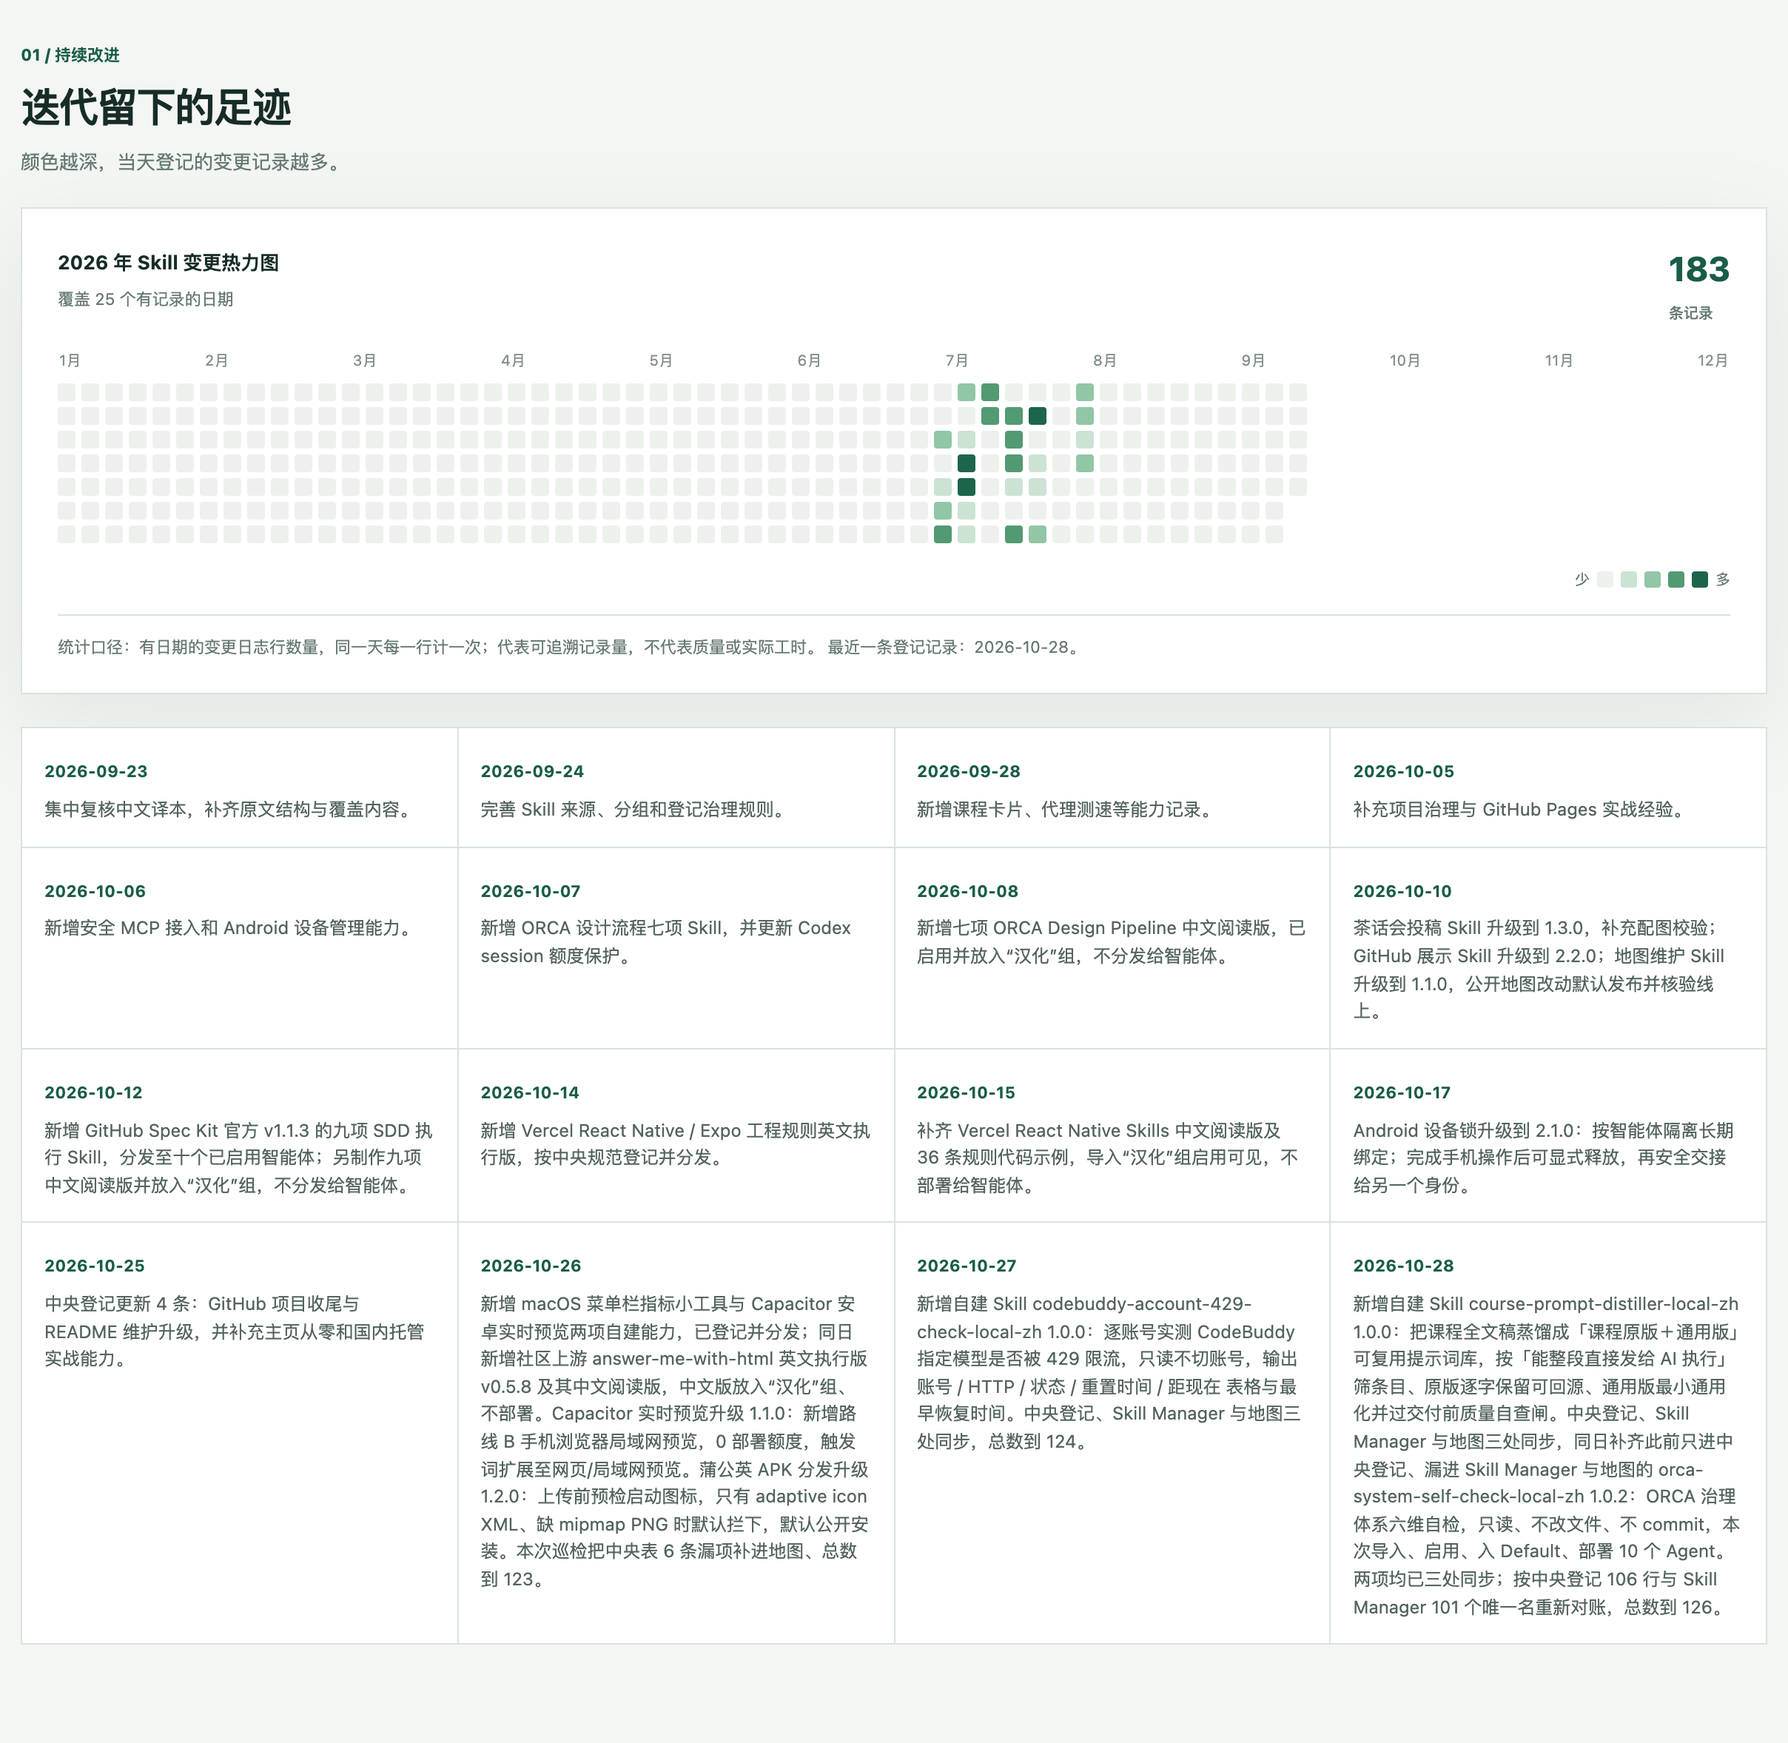
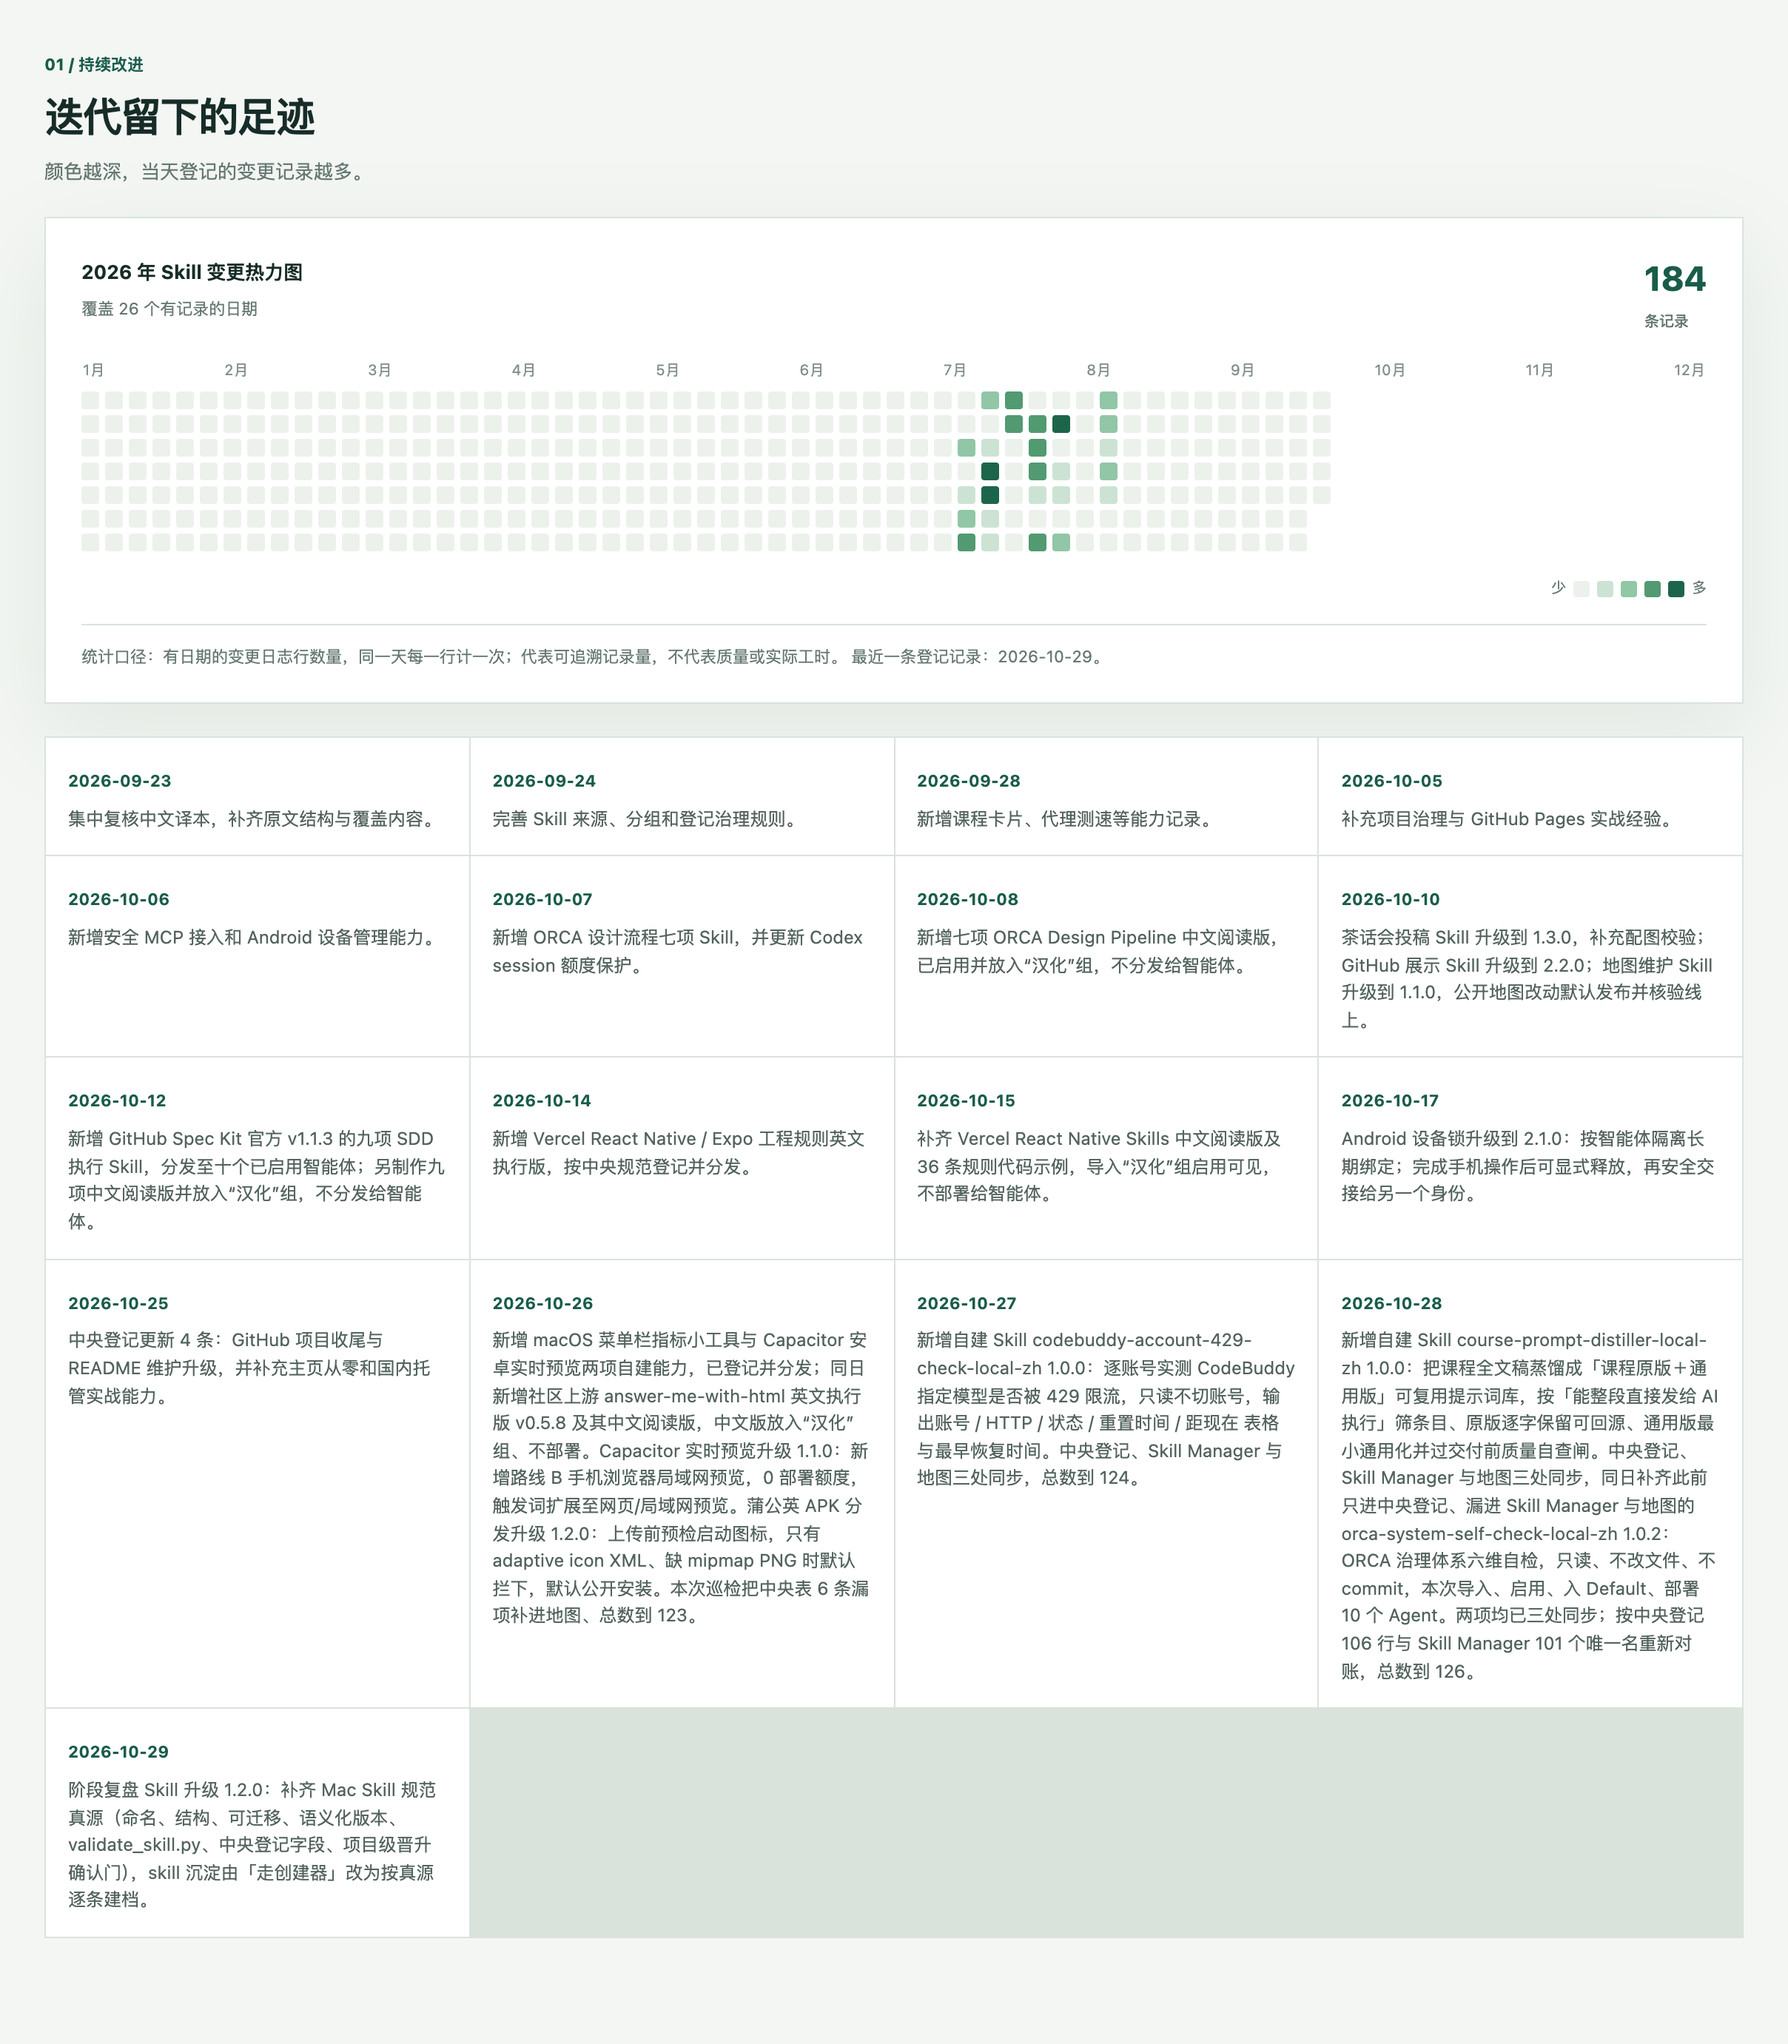
同步 stage-retro-local-zh 1.2.0，迭代记录到 184
摘要补上第五类产出 skill 沉淀建议与 Mac 规范真源建档要求；快照与热力图、README 截图同步至 2026-10-29。

diff --git a/index.html b/index.html
@@ -72,7 +72,7 @@
         <div class="table-shell"><table><thead><tr><th scope="col">#</th><th scope="col">Skill</th><th scope="col">能力领域</th><th scope="col">来源</th><th scope="col">它能帮我做什么</th></tr></thead><tbody id="skillRows"><tr><td class="loading" colspan="5">正在读取技能清单…</td></tr></tbody></table></div>
       </section>
     </main>
-    <footer class="foot"><span>数据快照：<span id="snapshot">2026-10-28</span> · 来源：中央仓库与个人技能库</span><span><a href="https://github.com/wanghoufan/alw-002-skill-system-map">GitHub 仓库</a> · 页面按登记信息手动更新</span></footer>
+    <footer class="foot"><span>数据快照：<span id="snapshot">2026-10-29</span> · 来源：中央仓库与个人技能库</span><span><a href="https://github.com/wanghoufan/alw-002-skill-system-map">GitHub 仓库</a> · 页面按登记信息手动更新</span></footer>
   </div>
   <script>
   const escapeHtml = s => String(s).replace(/[&<>"']/g, c => ({'&':'&amp;','<':'&lt;','>':'&gt;','"':'&quot;',"'":'&#39;'}[c]));
@@ -119,7 +119,7 @@
     }
     document.getElementById('heatMonths').innerHTML=['1月','2月','3月','4月','5月','6月','7月','8月','9月','10月','11月','12月'].map(x=>`<span>${x}</span>`).join('');
     const dated=[...data.events].sort((a,b)=>b.date.localeCompare(a.date));const latest=dated[0]?.date||'—';document.getElementById('heatCaption').textContent=`统计口径：${data.countDefinition} 最近一条登记记录：${latest}。`;
-    const highlights=[['2026-09-23','集中复核中文译本，补齐原文结构与覆盖内容。'],['2026-09-24','完善 Skill 来源、分组和登记治理规则。'],['2026-09-28','新增课程卡片、代理测速等能力记录。'],['2026-10-05','补充项目治理与 GitHub Pages 实战经验。'],['2026-10-06','新增安全 MCP 接入和 Android 设备管理能力。'],['2026-10-07','新增 ORCA 设计流程七项 Skill，并更新 Codex session 额度保护。'],['2026-10-08','新增七项 ORCA Design Pipeline 中文阅读版，已启用并放入“汉化”组，不分发给智能体。'],['2026-10-10','茶话会投稿 Skill 升级到 1.3.0，补充配图校验；GitHub 展示 Skill 升级到 2.2.0；地图维护 Skill 升级到 1.1.0，公开地图改动默认发布并核验线上。'],['2026-10-12','新增 GitHub Spec Kit 官方 v1.1.3 的九项 SDD 执行 Skill，分发至十个已启用智能体；另制作九项中文阅读版并放入“汉化”组，不分发给智能体。'],['2026-10-14','新增 Vercel React Native / Expo 工程规则英文执行版，按中央规范登记并分发。'],['2026-10-15','补齐 Vercel React Native Skills 中文阅读版及 36 条规则代码示例，导入“汉化”组启用可见，不部署给智能体。'],['2026-10-17','Android 设备锁升级到 2.1.0：按智能体隔离长期绑定；完成手机操作后可显式释放，再安全交接给另一个身份。'],['2026-10-25','中央登记更新 4 条：GitHub 项目收尾与 README 维护升级，并补充主页从零和国内托管实战能力。'],['2026-10-26','新增 macOS 菜单栏指标小工具与 Capacitor 安卓实时预览两项自建能力，已登记并分发；同日新增社区上游 answer-me-with-html 英文执行版 v0.5.8 及其中文阅读版，中文版放入“汉化”组、不部署。Capacitor 实时预览升级 1.1.0：新增路线 B 手机浏览器局域网预览，0 部署额度，触发词扩展至网页/局域网预览。蒲公英 APK 分发升级 1.2.0：上传前预检启动图标，只有 adaptive icon XML、缺 mipmap PNG 时默认拦下，默认公开安装。本次巡检把中央表 6 条漏项补进地图、总数到 123。'],['2026-10-27','新增自建 Skill codebuddy-account-429-check-local-zh 1.0.0：逐账号实测 CodeBuddy 指定模型是否被 429 限流，只读不切账号，输出账号 / HTTP / 状态 / 重置时间 / 距现在 表格与最早恢复时间。中央登记、Skill Manager 与地图三处同步，总数到 124。'],['2026-10-28','新增自建 Skill course-prompt-distiller-local-zh 1.0.0：把课程全文稿蒸馏成「课程原版＋通用版」可复用提示词库，按「能整段直接发给 AI 执行」筛条目、原版逐字保留可回源、通用版最小通用化并过交付前质量自查闸。中央登记、Skill Manager 与地图三处同步，同日补齐此前只进中央登记、漏进 Skill Manager 与地图的 orca-system-self-check-local-zh 1.0.2：ORCA 治理体系六维自检，只读、不改文件、不 commit，本次导入、启用、入 Default、部署 10 个 Agent。两项均已三处同步；按中央登记 106 行与 Skill Manager 101 个唯一名重新对账，总数到 126。']];
+    const highlights=[['2026-09-23','集中复核中文译本，补齐原文结构与覆盖内容。'],['2026-09-24','完善 Skill 来源、分组和登记治理规则。'],['2026-09-28','新增课程卡片、代理测速等能力记录。'],['2026-10-05','补充项目治理与 GitHub Pages 实战经验。'],['2026-10-06','新增安全 MCP 接入和 Android 设备管理能力。'],['2026-10-07','新增 ORCA 设计流程七项 Skill，并更新 Codex session 额度保护。'],['2026-10-08','新增七项 ORCA Design Pipeline 中文阅读版，已启用并放入“汉化”组，不分发给智能体。'],['2026-10-10','茶话会投稿 Skill 升级到 1.3.0，补充配图校验；GitHub 展示 Skill 升级到 2.2.0；地图维护 Skill 升级到 1.1.0，公开地图改动默认发布并核验线上。'],['2026-10-12','新增 GitHub Spec Kit 官方 v1.1.3 的九项 SDD 执行 Skill，分发至十个已启用智能体；另制作九项中文阅读版并放入“汉化”组，不分发给智能体。'],['2026-10-14','新增 Vercel React Native / Expo 工程规则英文执行版，按中央规范登记并分发。'],['2026-10-15','补齐 Vercel React Native Skills 中文阅读版及 36 条规则代码示例，导入“汉化”组启用可见，不部署给智能体。'],['2026-10-17','Android 设备锁升级到 2.1.0：按智能体隔离长期绑定；完成手机操作后可显式释放，再安全交接给另一个身份。'],['2026-10-25','中央登记更新 4 条：GitHub 项目收尾与 README 维护升级，并补充主页从零和国内托管实战能力。'],['2026-10-26','新增 macOS 菜单栏指标小工具与 Capacitor 安卓实时预览两项自建能力，已登记并分发；同日新增社区上游 answer-me-with-html 英文执行版 v0.5.8 及其中文阅读版，中文版放入“汉化”组、不部署。Capacitor 实时预览升级 1.1.0：新增路线 B 手机浏览器局域网预览，0 部署额度，触发词扩展至网页/局域网预览。蒲公英 APK 分发升级 1.2.0：上传前预检启动图标，只有 adaptive icon XML、缺 mipmap PNG 时默认拦下，默认公开安装。本次巡检把中央表 6 条漏项补进地图、总数到 123。'],['2026-10-27','新增自建 Skill codebuddy-account-429-check-local-zh 1.0.0：逐账号实测 CodeBuddy 指定模型是否被 429 限流，只读不切账号，输出账号 / HTTP / 状态 / 重置时间 / 距现在 表格与最早恢复时间。中央登记、Skill Manager 与地图三处同步，总数到 124。'],['2026-10-28','新增自建 Skill course-prompt-distiller-local-zh 1.0.0：把课程全文稿蒸馏成「课程原版＋通用版」可复用提示词库，按「能整段直接发给 AI 执行」筛条目、原版逐字保留可回源、通用版最小通用化并过交付前质量自查闸。中央登记、Skill Manager 与地图三处同步，同日补齐此前只进中央登记、漏进 Skill Manager 与地图的 orca-system-self-check-local-zh 1.0.2：ORCA 治理体系六维自检，只读、不改文件、不 commit，本次导入、启用、入 Default、部署 10 个 Agent。两项均已三处同步；按中央登记 106 行与 Skill Manager 101 个唯一名重新对账，总数到 126。'],['2026-10-29','阶段复盘 Skill 升级 1.2.0：补齐 Mac Skill 规范真源（命名、结构、可迁移、语义化版本、validate_skill.py、中央登记字段、项目级晋升确认门），skill 沉淀由「走创建器」改为按真源逐条建档。']];
     document.getElementById('recent').innerHTML=highlights.map(([date,text])=>`<article><time>${date}</time><p>${escapeHtml(text)}</p></article>`).join('');
   }
   load().catch(err=>{document.getElementById('skillRows').innerHTML=`<tr><td colspan="5" class="empty">${escapeHtml(err.message)}。请稍后刷新页面。</td></tr>`;document.getElementById('heatSub').textContent='迭代记录暂时不可用'});

diff --git a/docs/技能体系示意图.md b/docs/技能体系示意图.md
@@ -1,6 +1,6 @@
 # Skill 体系地图（示意稿）
 
-> 数据基准：中央 Skill 登记档案 + 当前个人技能库已安装清单，截至 2026-10-28。中央登记 106 项、Skill Manager 清单 107 条记录（去重后 101 个唯一名称），按名称去重合计 126 项：中央独有 25 项、Skill Manager 独有 20 项。滴答清单助手与周复盘标准属于 Skill Manager 个人条目。
+> 数据基准：中央 Skill 登记档案 + 当前个人技能库已安装清单，截至 2026-10-29。中央登记 106 项、Skill Manager 清单 107 条记录（去重后 101 个唯一名称），按名称去重合计 126 项：中央独有 25 项、Skill Manager 独有 20 项。滴答清单助手与周复盘标准属于 Skill Manager 个人条目。
 
 ## Skill 能力领域总表
 

diff --git a/README.en.md b/README.en.md
@@ -24,7 +24,7 @@ Domains include life management, travel, requirements, project collaboration, UI
 
 ## Public data snapshot
 
-The public page reflects a data snapshot from **2026-10-28**, with 126 registered Skills. Translations and their English originals are listed separately. Community contributions and entries with unverified sources are labeled “Community / Unverified.”
+The public page reflects a data snapshot from **2026-10-29**, with 126 registered Skills. Translations and their English originals are listed separately. Community contributions and entries with unverified sources are labeled “Community / Unverified.”
 
 | Source | Count | Description |
 | --- | ---: | --- |

diff --git a/README.md b/README.md
@@ -24,7 +24,7 @@
 
 ## 当前公开数据
 
-公开页面的数据快照截至 **2026-10-28**，共登记 126 个 Skill。翻译版与英文原版作为独立条目展示；社区作品和来源尚未确认的条目归入“社区 / 待核验”。
+公开页面的数据快照截至 **2026-10-29**，共登记 126 个 Skill。翻译版与英文原版作为独立条目展示；社区作品和来源尚未确认的条目归入“社区 / 待核验”。
 
 | 来源 | 数量 | 说明 |
 | --- | ---: | --- |
